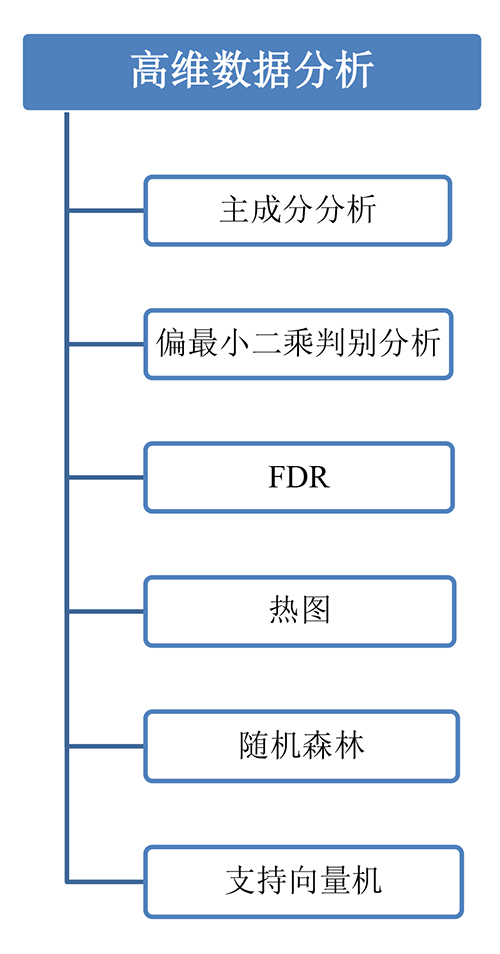
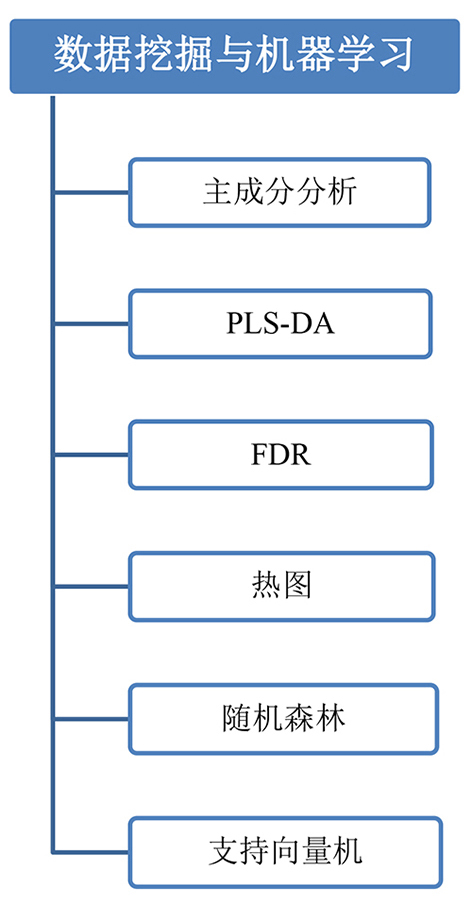
Add files via upload

Changed region(s): [[0.0, 0.0, 0.9788, 0.9912]]

diff --git a/index_gaoweishujufenxi.html b/index_gaoweishujufenxi.html
@@ -40,7 +40,7 @@
     <td width="300" rowspan="2" align="right" valign="top"><img src="image2/7.jpg" width="300" height="298"  alt=""/></td>
   </tr>
   <tr>
-    <td height="168" colspan="2" align="left" valign="top" style="font-size: 36px"><span style="line-height: 150%; font-size: 24px; font-family: Cambria, 'Hoefler Text', 'Liberation Serif', Times, 'Times New Roman', serif;">DataAnalyst平台提供高维数据统计分析方法，主要包括主成分分析、热图、随机森林、支持向量机等。</span></td>
+    <td height="168" colspan="2" align="left" valign="top" style="font-size: 36px"><span style="line-height: 150%; font-size: 24px; font-family: Cambria, 'Hoefler Text', 'Liberation Serif', Times, 'Times New Roman', serif;">DataAnalyst平台提供数据挖掘与机器学习统计分析方法，主要包括主成分分析、热图、随机森林、支持向量机等。</span></td>
     <td align="left" valign="top">&nbsp;</td>
   </tr>
   <tr>
